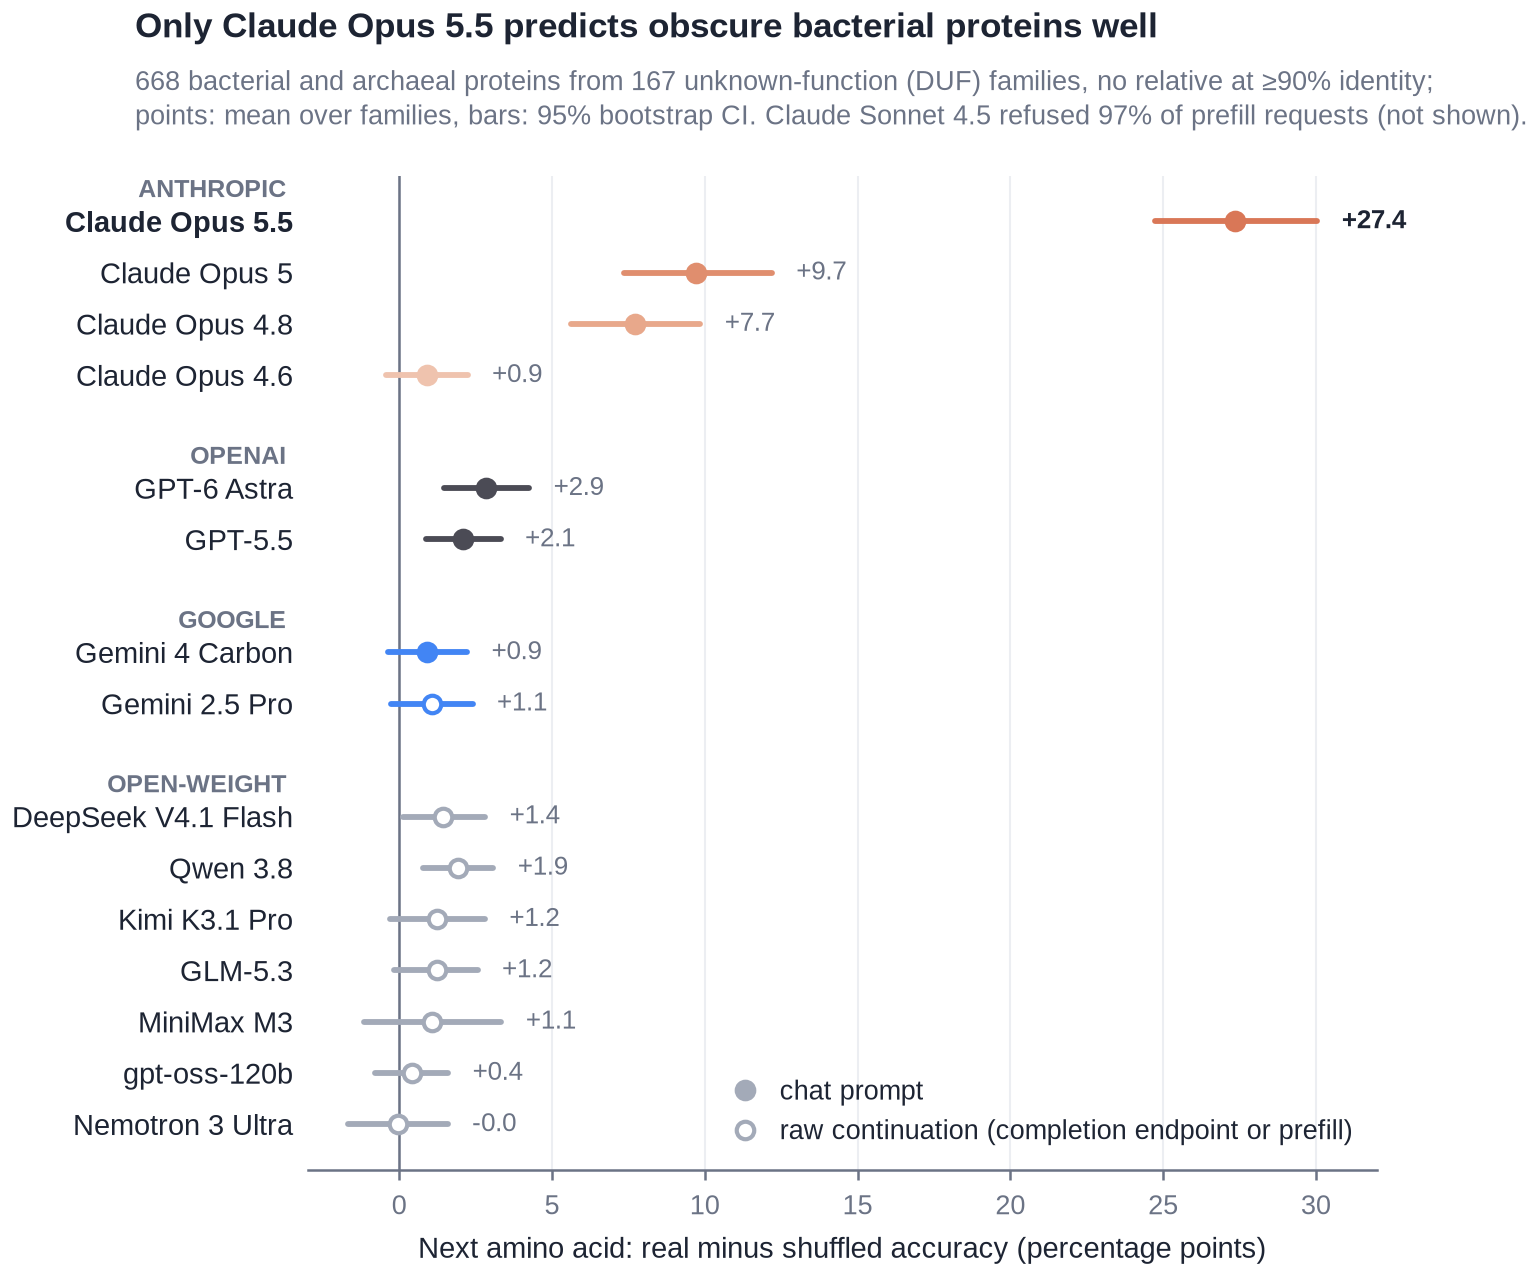
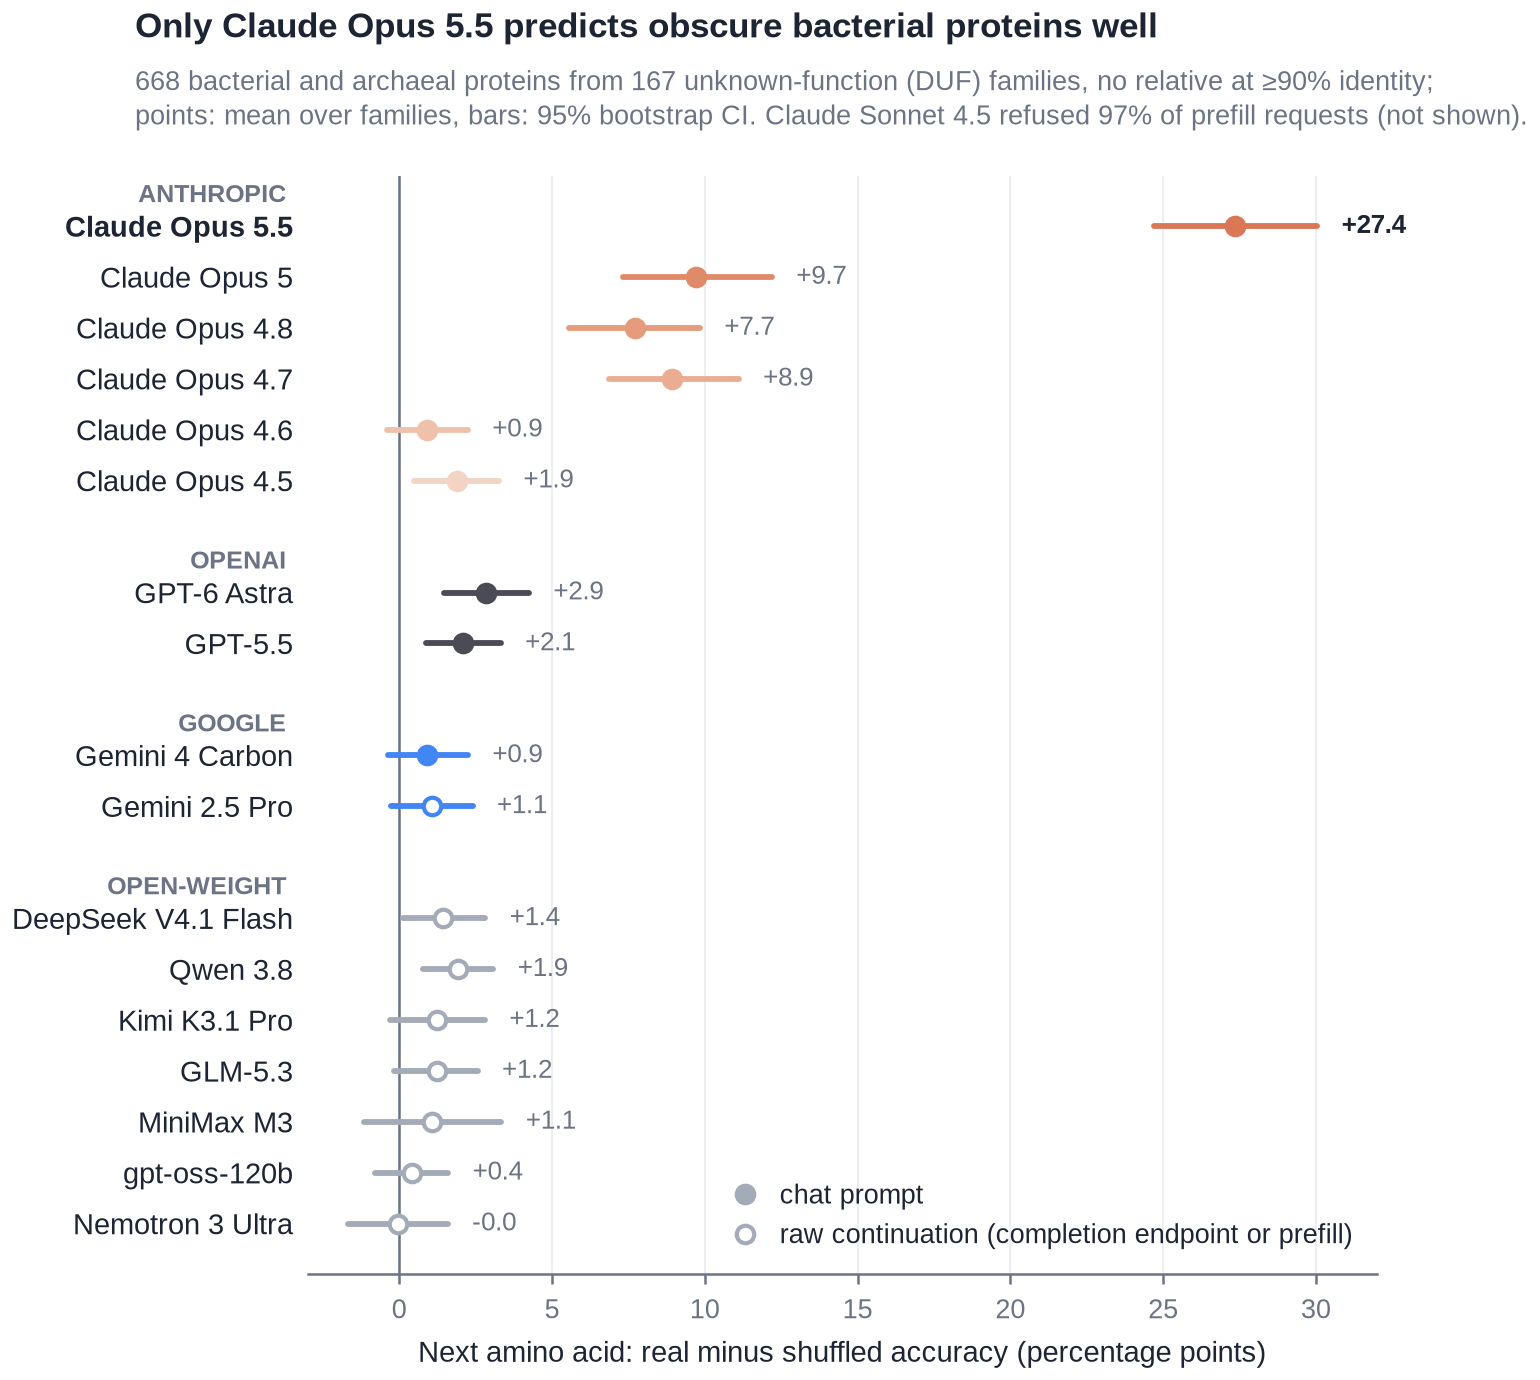
Add Claude Opus 4.5 and 4.7 and a protein language model comparison
Fig 1 and Fig 5 now cover Claude Opus 4.5 to 5.5: the signal appears with
Opus 4.7 and jumps with Opus 5.5. A new section compares ESM-2, ESM C,
ESM3-open and ProtGPT2 on the same input, with the sanity checks in the
appendix.

diff --git a/_posts/2026-11-16-claude-opus-5-5-protein-sequences.md b/_posts/2026-11-16-claude-opus-5-5-protein-sequences.md
@@ -15,6 +15,7 @@ toc:
   - name: "Method: proteins nobody has studied"
   - name: "Results: only Claude Opus 5.5 predicts them"
   - name: "Evidence that this comes from training data"
+  - name: "Comparison with protein language models"
   - name: "Famous proteins and variant ranking"
   - name: "What this means"
   - name: "Code and data"
@@ -65,7 +66,7 @@ _styles: |
 ---
 
 <div class="bp-lede" markdown="1">
-**Claude Opus 5.5 was trained on protein sequences, at scale.** On bacterial proteins that no paper describes, it predicts the next amino acid far better than on the same proteins shuffled. No other model we tested does, from OpenAI, Google or seven open-weight labs. The signal grows with the number of sequences in a protein's family, even in families with no papers at all, which is what training on sequence data predicts. It appeared in recent Claude models and jumped with Opus 5.5.
+**Claude Opus 5.5 was trained on protein sequences, at scale.** On bacterial proteins that no paper describes, it predicts the next amino acid far better than on the same proteins shuffled. No other model we tested does, from OpenAI, Google or seven open-weight labs. The signal grows with the number of sequences in a protein's family, even in families with no papers at all, which is what training on sequence data predicts. It appears with Claude Opus 4.7 and jumps with Opus 5.5. Given the same input, Opus 5.5 also scores above protein language models such as ESM C, ESM3 and ProtGPT2.
 </div>
 
 ## Motivation
@@ -91,7 +92,7 @@ The proteins come from 167 Pfam "domain of unknown function" families with no so
   <figcaption>Filled points: the chat prompt. Hollow points: raw next-token continuation of the FASTA text, through a completion endpoint or a prefilled reply, for models that allow it.</figcaption>
 </figure>
 
-The gap for Opus 5.5 has a 95% CI of 24.7 to 30.1 points and appears in 95% of families. The open-weight models were run as raw next-token continuation of the FASTA text, the way they were trained, and still show nothing.
+The gap for Opus 5.5 has a 95% CI of 24.7 to 30.0 points and appears in 95% of families. Across Claude generations, Opus 4.5 and 4.6 show none, Opus 4.7, 4.8 and 5 show 8 to 10 points, and Opus 5.5 jumps to 27. The open-weight models were run as raw next-token continuation of the FASTA text, the way they were trained, and still show nothing.
 
 ## Evidence that this comes from training data
 
@@ -99,10 +100,25 @@ The gap for Opus 5.5 has a 95% CI of 24.7 to 30.1 points and appears in 95% of f
   <img src="{{ '/assets/img/llm-bioseq-probe/fig5_family_size.png' | relative_url }}" alt="Line chart: Claude Opus 5.5's gap rises from 21 points in families of 300 to 1,000 proteins to 37 points in families over 10,000; other models stay near zero.">
 </figure>
 
-A model that learned from sequence data should know big families better than small ones, and Opus 5.5 does: 21 points for families of 300 to 1,000 proteins, 37 for families over 10,000 (Spearman 0.27, p = 0.0002). Opus 4.8 and Opus 5 show the same slope at a lower level. Two other explanations do not fit:
+A model that learned from sequence data should know big families better than small ones, and Opus 5.5 does: 21 points for families of 300 to 1,000 proteins, 37 for families over 10,000 (Spearman 0.27, p = 0.0002). Opus 4.7, 4.8 and 5 show the same slope at a lower level. Two other explanations do not fit:
 
 - **Not papers.** In the 128 families with no Europe PMC hit at all, the gap is 26.8 points and still grows with family size (rho 0.28, p = 0.001). Across families it does not track paper counts (rho 0.05).
 - **Not reasoning.** On the 55% of questions where Opus 5.5 wrote 15 tokens or fewer, barely more than the answer, it is right 35.6% of the time (shuffled: 7.3%). GPT-6 Astra thinks for 200+ tokens per question and reaches about 10%.
+
+## Comparison with protein language models
+
+Protein language models are trained only on protein sequences, so they give a reference level for the same test. Given the same input as the LLMs, the residues before the cut, they score well below Claude Opus 5.5:
+
+| Model | Input | Real minus shuffled, points (95% CI) |
+|---|---|---|
+| **Claude Opus 5.5** | residues before the cut | **+27.4** (24.7 to 30.0) |
+| ESM C 600M | residues before the cut | +13.0 (10.8 to 15.2) |
+| ProtGPT2 | residues before the cut | +10.2 (8.3 to 12.2) |
+| ESM3-open 1.4B | residues before the cut | +8.5 (6.5 to 10.7) |
+| ESM-2 650M | residues before the cut | +7.0 (5.2 to 8.8) |
+| ESM-2 650M | the whole protein, one residue masked | +34.6 (31.8 to 37.2) |
+
+ESM-2, ESM C and ESM3 are masked models that normally see both sides of a residue, so the left side alone is not their usual setting; with the whole protein, ESM-2 reaches +34.6. ProtGPT2 reads left to right, like an LLM. These are reference levels, not a ranking of the models.
 
 ## Famous proteins and variant ranking
 
@@ -157,6 +173,7 @@ At 158 points in well-studied proteins, each model was asked for the next 200 re
 
 - **Prompt format.** Asking Opus 5.5 to copy the sequence and then continue gives the same gap as the standard prompt (19.3 vs 19.8 points on the same subset of questions).
 - **Refusals.** Non-answers are excluded and counted: 1% for Opus 5.5. Counting them as wrong moves its gap by under 1 point. GPT-4o, DeepSeek, Qwen, Kimi, GLM and gpt-oss often declined to guess a sequence; a best-guess prompt made them answer and did not change the picture.
+- **Protein language models.** Every model passed a sanity check first: with the whole protein and one residue masked at a time, ESM-2 gets 80% of ubiquitin right, ESM C and ESM3-open 100%. Masks are set on token ids; the ESM SDK's "_" character is not ESM C's mask token. ProtGPT2 uses multi-residue tokens, so a residue's probability is the sum over the tokens that start with it.
 - **A first round.** A smaller run of 20 models on 37 families, half well-known and half obscure, gave the same picture and set the design of the main run.
 
 ### D. Methods
